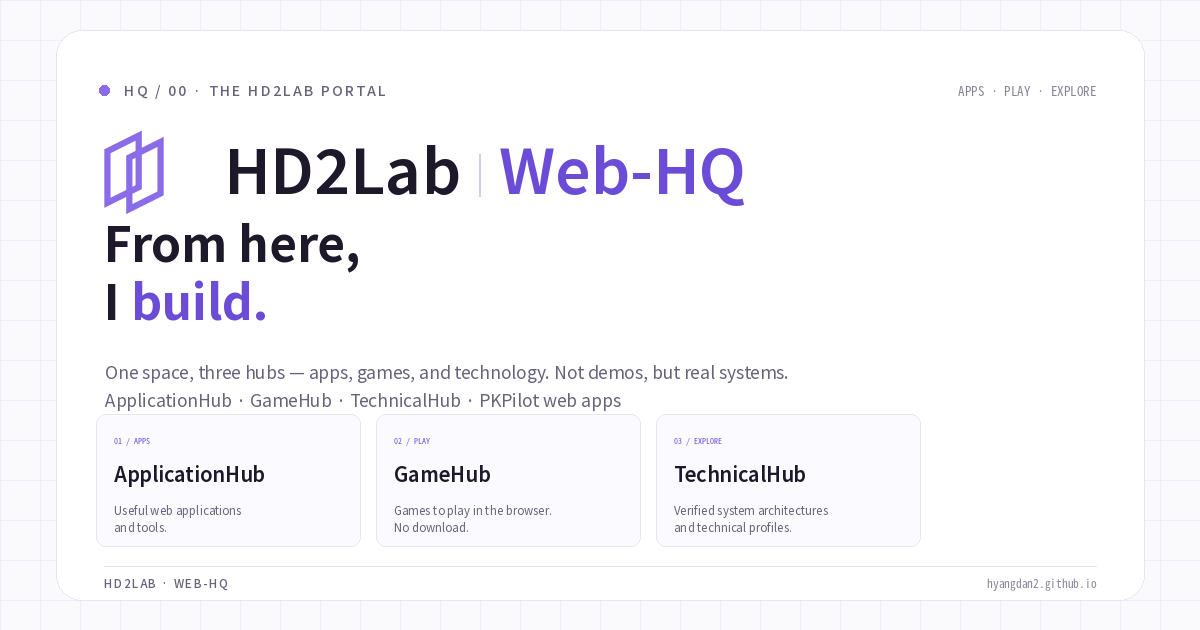
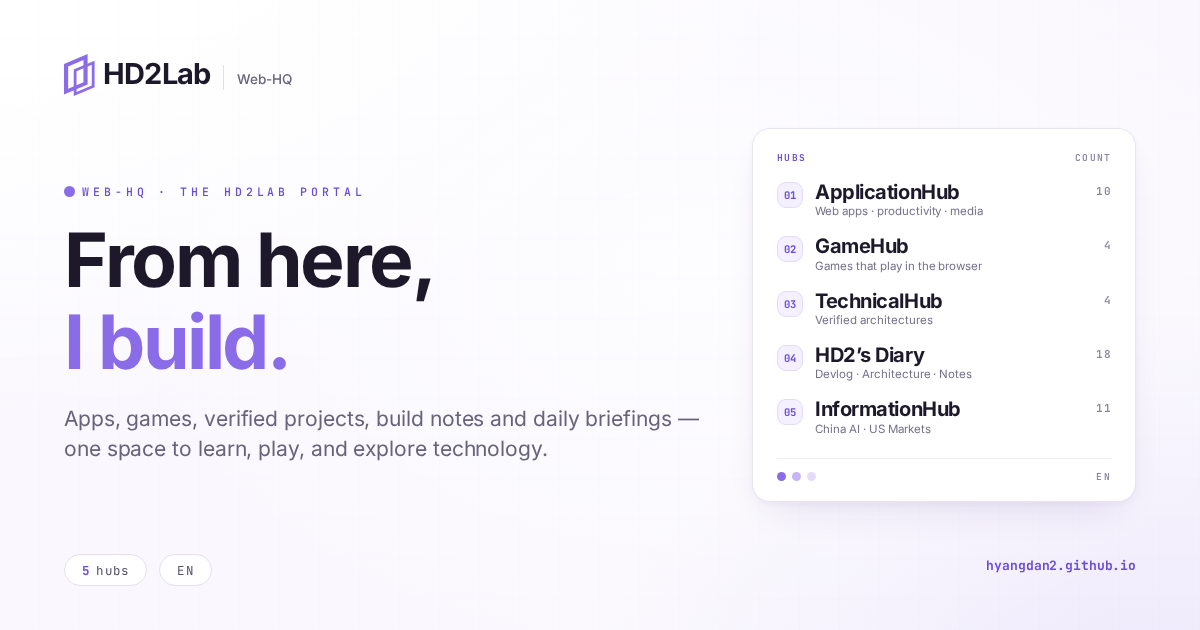
feat(og): Web-HQ 공유 카드를 HD2's Diary 스타일로 통일 (#93)
- og-image.png을 1200x630 Diary 카드 사양(Soft Iris 바탕, 듀얼 스큐 .mark,
  Inter/JetBrains Mono, 좌측 타이틀·설명·칩 + 우측 5허브 요약 카드)으로 교체
- og:image / twitter:image 캐시 무효화 쿼리를 ?v=20261121-og로 갱신
  (index.html, about/index.html이 같은 파일을 공유)
- og:title·og:description·파비콘 세트·GoatCounter 스크립트는 그대로 유지

diff --git a/about/index.html b/about/index.html
@@ -12,15 +12,15 @@
     <meta property="og:title" content="About | HD2Lab">
     <meta property="og:description" content="Beyond dimensions, built for real. One lab shipping AI systems, computer vision and workflow automation as production software — five hubs, one place.">
     <meta property="og:url" content="https://hyangdan2.github.io/about/">
-    <meta property="og:image" content="https://hyangdan2.github.io/og-image.png?v=20261116-softiris">
-    <meta property="og:image:secure_url" content="https://hyangdan2.github.io/og-image.png?v=20261116-softiris">
+    <meta property="og:image" content="https://hyangdan2.github.io/og-image.png?v=20261121-og">
+    <meta property="og:image:secure_url" content="https://hyangdan2.github.io/og-image.png?v=20261121-og">
     <meta property="og:image:type" content="image/png">
     <meta property="og:image:width" content="1200">
     <meta property="og:image:height" content="630">
     <meta name="twitter:card" content="summary_large_image">
     <meta name="twitter:title" content="About | HD2Lab">
     <meta name="twitter:description" content="Beyond dimensions, built for real. One lab shipping AI systems, computer vision and workflow automation as production software — five hubs, one place.">
-    <meta name="twitter:image" content="https://hyangdan2.github.io/og-image.png?v=20261116-softiris">
+    <meta name="twitter:image" content="https://hyangdan2.github.io/og-image.png?v=20261121-og">
     <!-- HD2Lab shared theme: applies the stored hd2-theme before first paint (no flash) -->
     <script>try{var h=localStorage.getItem('hd2-theme');document.documentElement.setAttribute('data-theme',h==='dark'?'dark':'light');}catch(e){document.documentElement.setAttribute('data-theme','light');}</script>
     <link rel="stylesheet" href="/assets/hd2-theme.css?v=20261118-nav" />

diff --git a/index.html b/index.html
@@ -12,8 +12,8 @@
     <meta property="og:title" content="HD2Lab | Web-HQ">
     <meta property="og:description" content="HD2Lab HQ. A space to learn, play, and explore technology. Apps, games, verified technical projects, and build notes in one place.">
     <meta property="og:url" content="https://hyangdan2.github.io/">
-    <meta property="og:image" content="https://hyangdan2.github.io/og-image.png?v=20261116-softiris">
-    <meta property="og:image:secure_url" content="https://hyangdan2.github.io/og-image.png?v=20261116-softiris">
+    <meta property="og:image" content="https://hyangdan2.github.io/og-image.png?v=20261121-og">
+    <meta property="og:image:secure_url" content="https://hyangdan2.github.io/og-image.png?v=20261121-og">
     <meta property="og:image:type" content="image/png">
     <meta property="og:image:width" content="1200">
     <meta property="og:image:height" content="630">
@@ -21,7 +21,7 @@
     <meta name="twitter:card" content="summary_large_image">
     <meta name="twitter:title" content="HD2Lab | Web-HQ">
     <meta name="twitter:description" content="HD2Lab HQ. A space to learn, play, and explore technology. Apps, games, verified technical projects, and build notes in one place.">
-    <meta name="twitter:image" content="https://hyangdan2.github.io/og-image.png?v=20261116-softiris">
+    <meta name="twitter:image" content="https://hyangdan2.github.io/og-image.png?v=20261121-og">
     <!-- HD2Lab shared theme: applies the stored hd2-theme before first paint (no flash) -->
     <script>try{var h=localStorage.getItem('hd2-theme');document.documentElement.setAttribute('data-theme',h==='dark'?'dark':'light');}catch(e){document.documentElement.setAttribute('data-theme','light');}</script>
     <link rel="stylesheet" href="/assets/hd2-theme.css?v=20261118-nav" />
